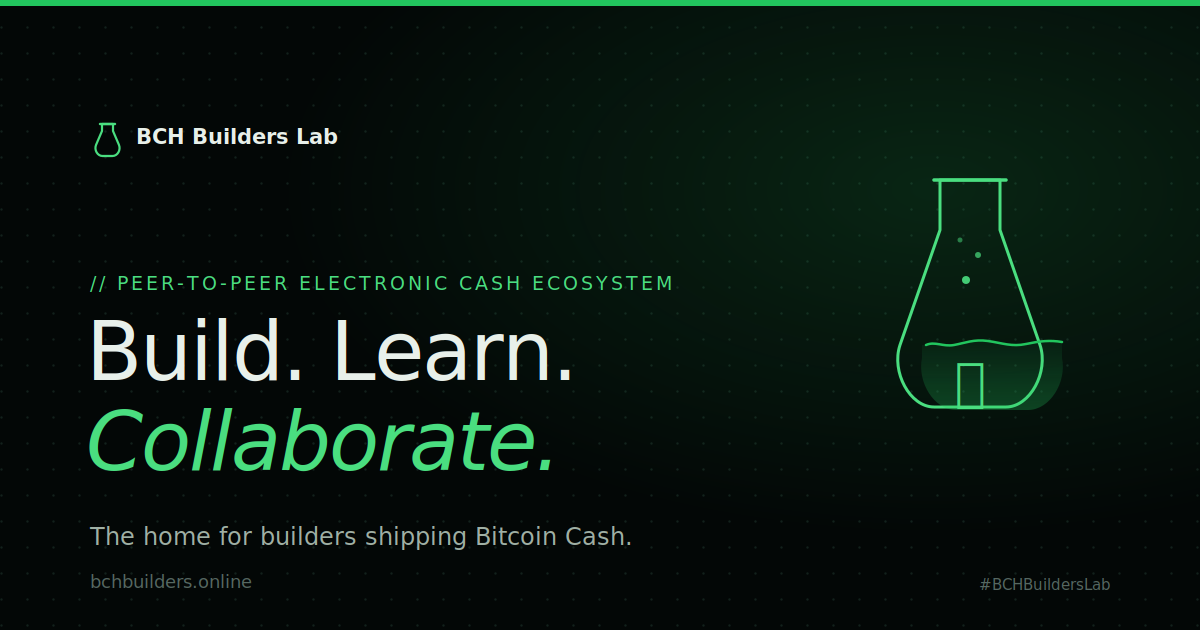
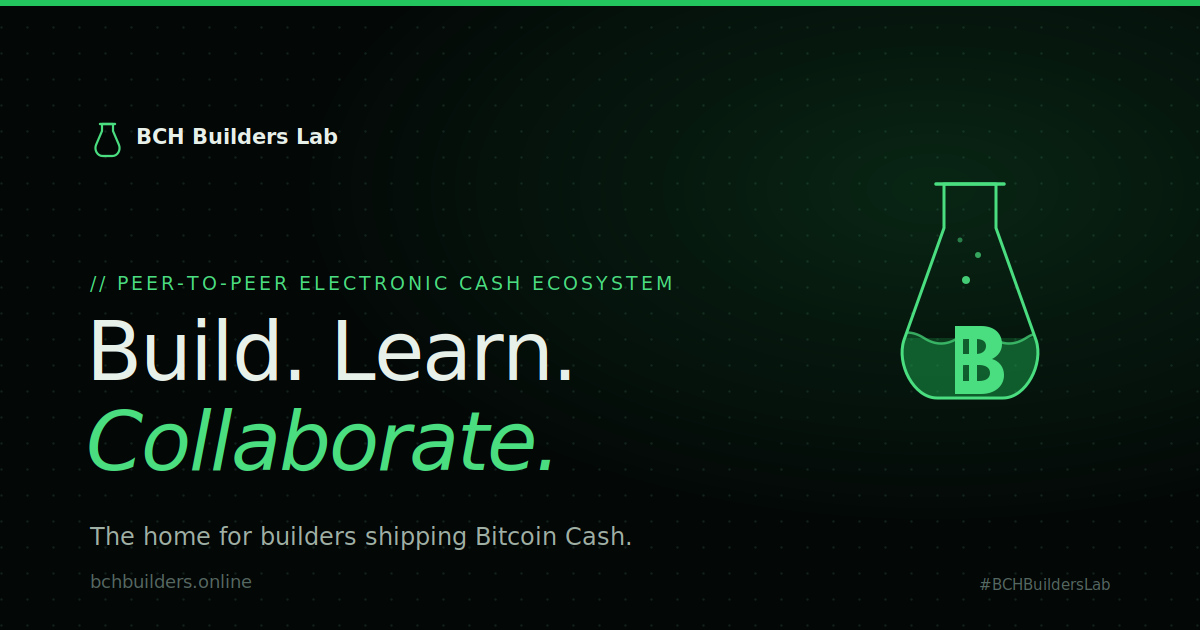
all - push - changes

Changed region(s): [[0.74, 0.3619, 0.8942, 0.6635], [0.7708, 0.2714, 0.8325, 0.4524]]

diff --git a/index.html b/index.html
@@ -278,12 +278,26 @@ footer{padding:4rem 0 3rem}
 </div>
 <div class="flask-wrap">
 <svg class="flask-svg" viewBox="0 0 300 300" xmlns="http://www.w3.org/2000/svg" fill="none">
-<path d="M120 40h60v50l35 100c8 24-9 55-30 55h-70c-21 0-38-31-30-55l35-100V40z" stroke="#4ADE80" stroke-width="2.5" stroke-linejoin="round"/>
-<line x1="115" y1="40" x2="185" y2="40" stroke="#4ADE80" stroke-width="3" stroke-linecap="round"/>
-<path d="M108 175c8-4 15 2 25 0s18-6 30-4 22 6 34 3 22-4 32-2" stroke="#22C55E" stroke-width="2" stroke-linecap="round"/>
-<path d="M108 175c8-4 15 2 25 0s18-6 30-4 22 6 34 3 22-4 32-2v14c4 22-11 47-30 47h-70c-19 0-34-25-30-47v-11z" fill="#22C55E" opacity=".15"/>
-<text x="150" y="220" font-family="Space Grotesk,sans-serif" font-size="42" font-weight="700" fill="#4ADE80" text-anchor="middle">₿</text>
-<path d="M130 60v100" stroke="#B7CC78" stroke-width="1.5" opacity=".4"/>
+<defs>
+<clipPath id="heroFlaskInside">
+<path d="M126 52h48v40l38 106c7 22-9 54-31 54h-62c-22 0-38-32-31-54l38-106V52z"/>
+</clipPath>
+</defs>
+<!-- Liquid, clipped to flask interior -->
+<g clip-path="url(#heroFlaskInside)">
+<rect x="70" y="180" width="160" height="95" fill="#22C55E" opacity=".22"/>
+<path d="M70 180 q16 -10 32 0 t32 0 t32 0 t32 0 t32 0 V275 H70 Z" fill="#22C55E" opacity=".28"/>
+<path d="M70 180 q16 -10 32 0 t32 0 t32 0 t32 0 t32 0" stroke="#4ADE80" stroke-width="2.5" fill="none" opacity=".7"/>
+</g>
+<!-- Flask outline -->
+<path d="M126 52h48v40l38 106c7 22-9 54-31 54h-62c-22 0-38-32-31-54l38-106V52z" stroke="#4ADE80" stroke-width="2.5" stroke-linejoin="round"/>
+<line x1="120" y1="52" x2="180" y2="52" stroke="#4ADE80" stroke-width="3" stroke-linecap="round"/>
+<!-- Bitcoin B, vector path, centered at x=150, seated in liquid -->
+<g transform="translate(139,208)" fill="#4ADE80">
+<rect x="10" y="-38" width="7" height="60" rx="1.5"/>
+<rect x="-3" y="-38" width="7" height="60" rx="1.5"/>
+<path d="M-3 -38h25c13 0 20 8 20 17 0 7-4 12-10 14 7 2 12 8 12 16 0 11-9 18-22 18h-25v-12h23c6 0 10-3 10-8s-4-8-10-8h-23v-11h20c5 0 9-3 9-8s-4-7-9-7h-20z"/>
+</g>
 </svg>
 <div class="bubble"></div><div class="bubble"></div><div class="bubble"></div><div class="bubble"></div>
 </div>
@@ -450,7 +464,7 @@ footer{padding:4rem 0 3rem}
 <p style="color:var(--text-2);font-size:1rem;max-width:480px">Our first hybrid meetup. Come with what you're building, or with the question you've been chewing on.</p>
 <div class="lab-meta">
 <div class="meta-item"><div class="label">Date</div><div class="value">Sunday, August 16</div></div>
-<div class="meta-item"><div class="label">Time</div><div class="value">2:00 PM WAT</div></div>
+<div class="meta-item"><div class="label">Time</div><div class="value">3:00 PM WAT</div></div>
 <div class="meta-item"><div class="label">Physical venue</div><div class="value">Yola, Nigeria</div></div>
 <div class="meta-item"><div class="label">Online</div><div class="value green">Google Meet</div></div>
 </div>

diff --git a/sw.js b/sw.js
@@ -1,0 +1,56 @@
+// BCH Builders Lab — service worker
+// Bump CACHE version whenever you redeploy so users get fresh content.
+const CACHE = 'bch-builders-lab-v2';
+const CORE = [
+  '/',
+  '/index.html',
+  '/icon-192.png',
+  '/icon-512.png',
+  '/manifest.webmanifest'
+];
+
+// Install: pre-cache the core shell
+self.addEventListener('install', (e) => {
+  e.waitUntil(caches.open(CACHE).then((c) => c.addAll(CORE)).then(() => self.skipWaiting()));
+});
+
+// Activate: clean up old caches
+self.addEventListener('activate', (e) => {
+  e.waitUntil(
+    caches.keys().then((keys) =>
+      Promise.all(keys.filter((k) => k !== CACHE).map((k) => caches.delete(k)))
+    ).then(() => self.clients.claim())
+  );
+});
+
+// Fetch: network-first for the page (so content stays fresh),
+// cache-first for static assets, offline fallback to cached shell.
+self.addEventListener('fetch', (e) => {
+  const req = e.request;
+  if (req.method !== 'GET') return;
+  const url = new URL(req.url);
+
+  // Don't cache cross-origin API calls (CoinGecko price, Luma, etc.) — always go to network
+  if (url.origin !== self.location.origin) return;
+
+  // HTML: network-first, fall back to cache when offline
+  if (req.mode === 'navigate' || req.headers.get('accept')?.includes('text/html')) {
+    e.respondWith(
+      fetch(req).then((res) => {
+        const copy = res.clone();
+        caches.open(CACHE).then((c) => c.put(req, copy));
+        return res;
+      }).catch(() => caches.match(req).then((r) => r || caches.match('/')))
+    );
+    return;
+  }
+
+  // Static assets: cache-first
+  e.respondWith(
+    caches.match(req).then((cached) => cached || fetch(req).then((res) => {
+      const copy = res.clone();
+      caches.open(CACHE).then((c) => c.put(req, copy));
+      return res;
+    }))
+  );
+});
